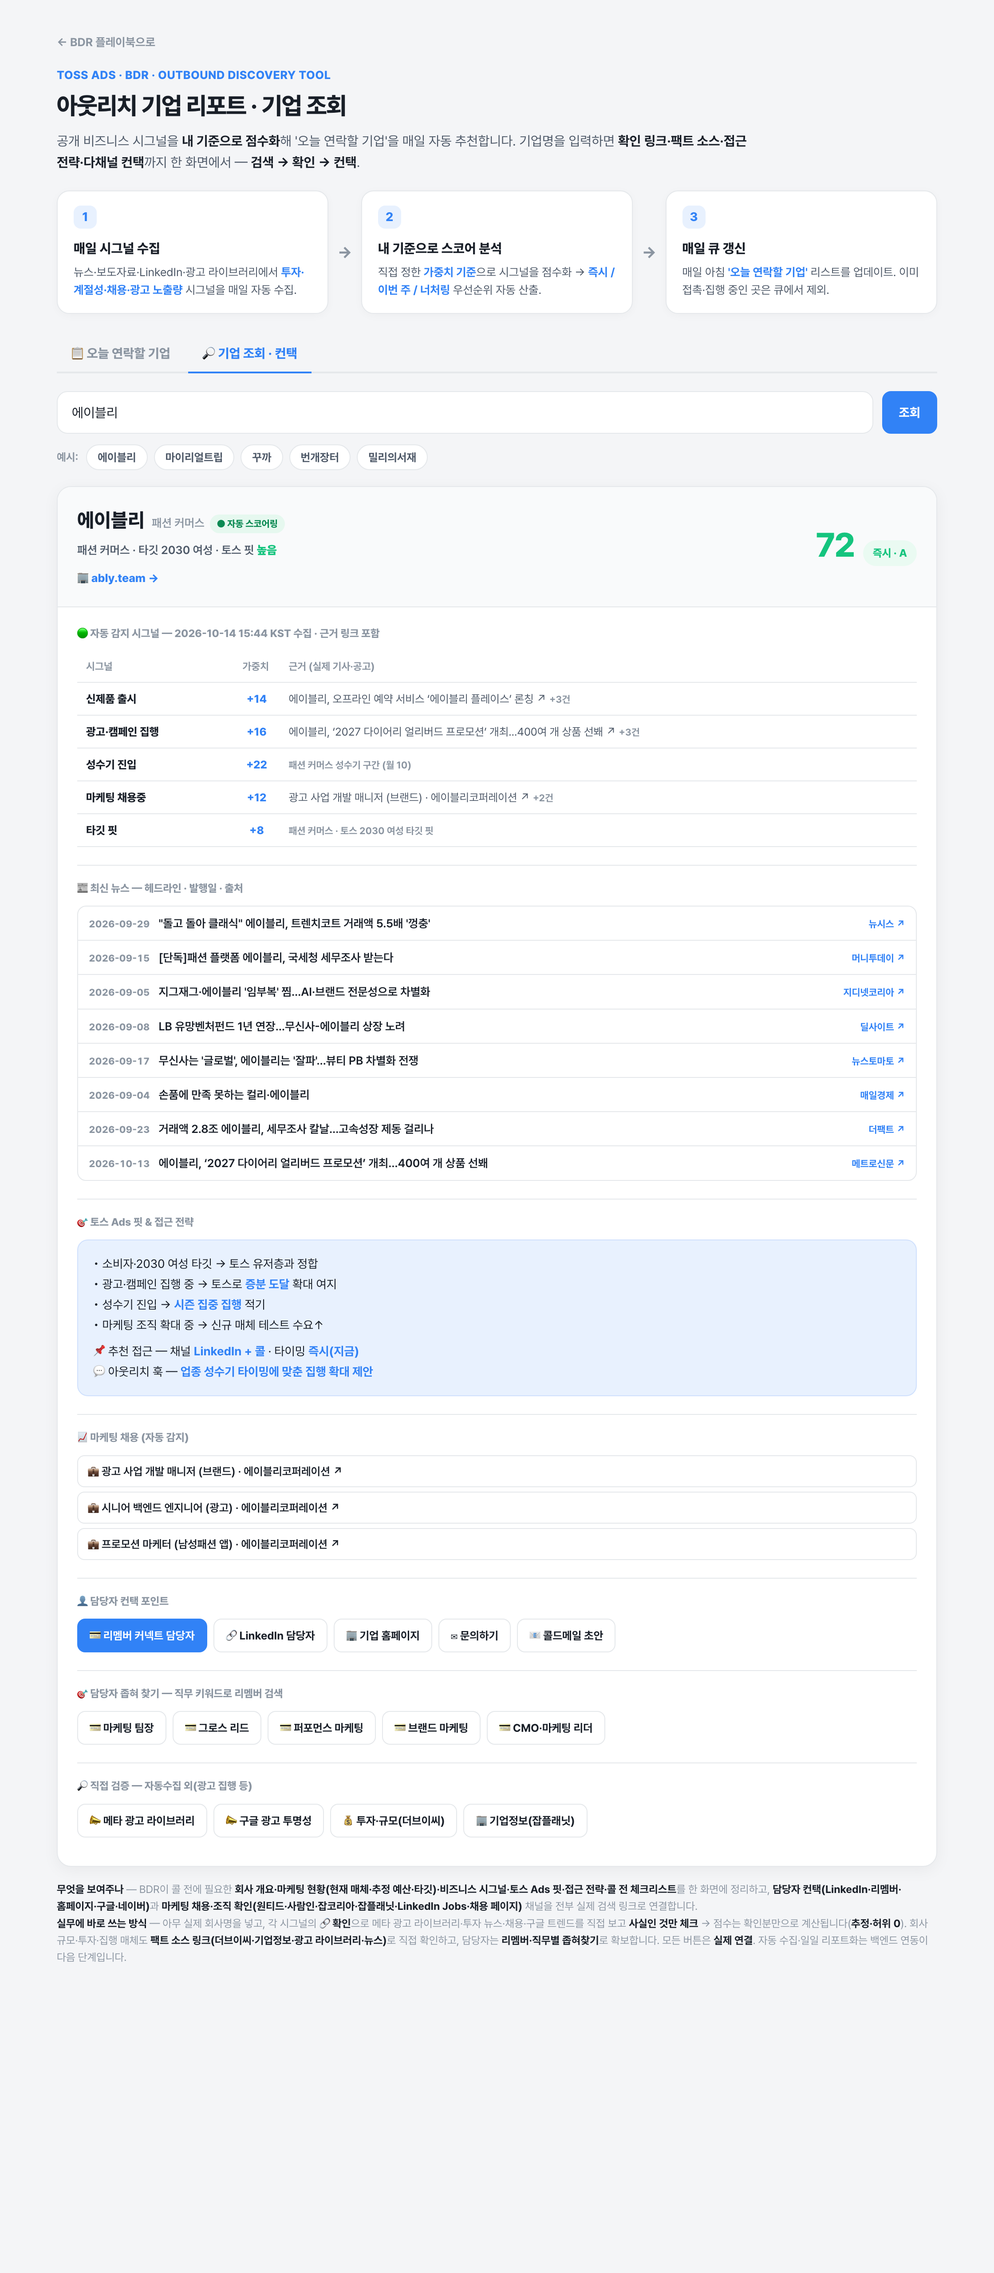
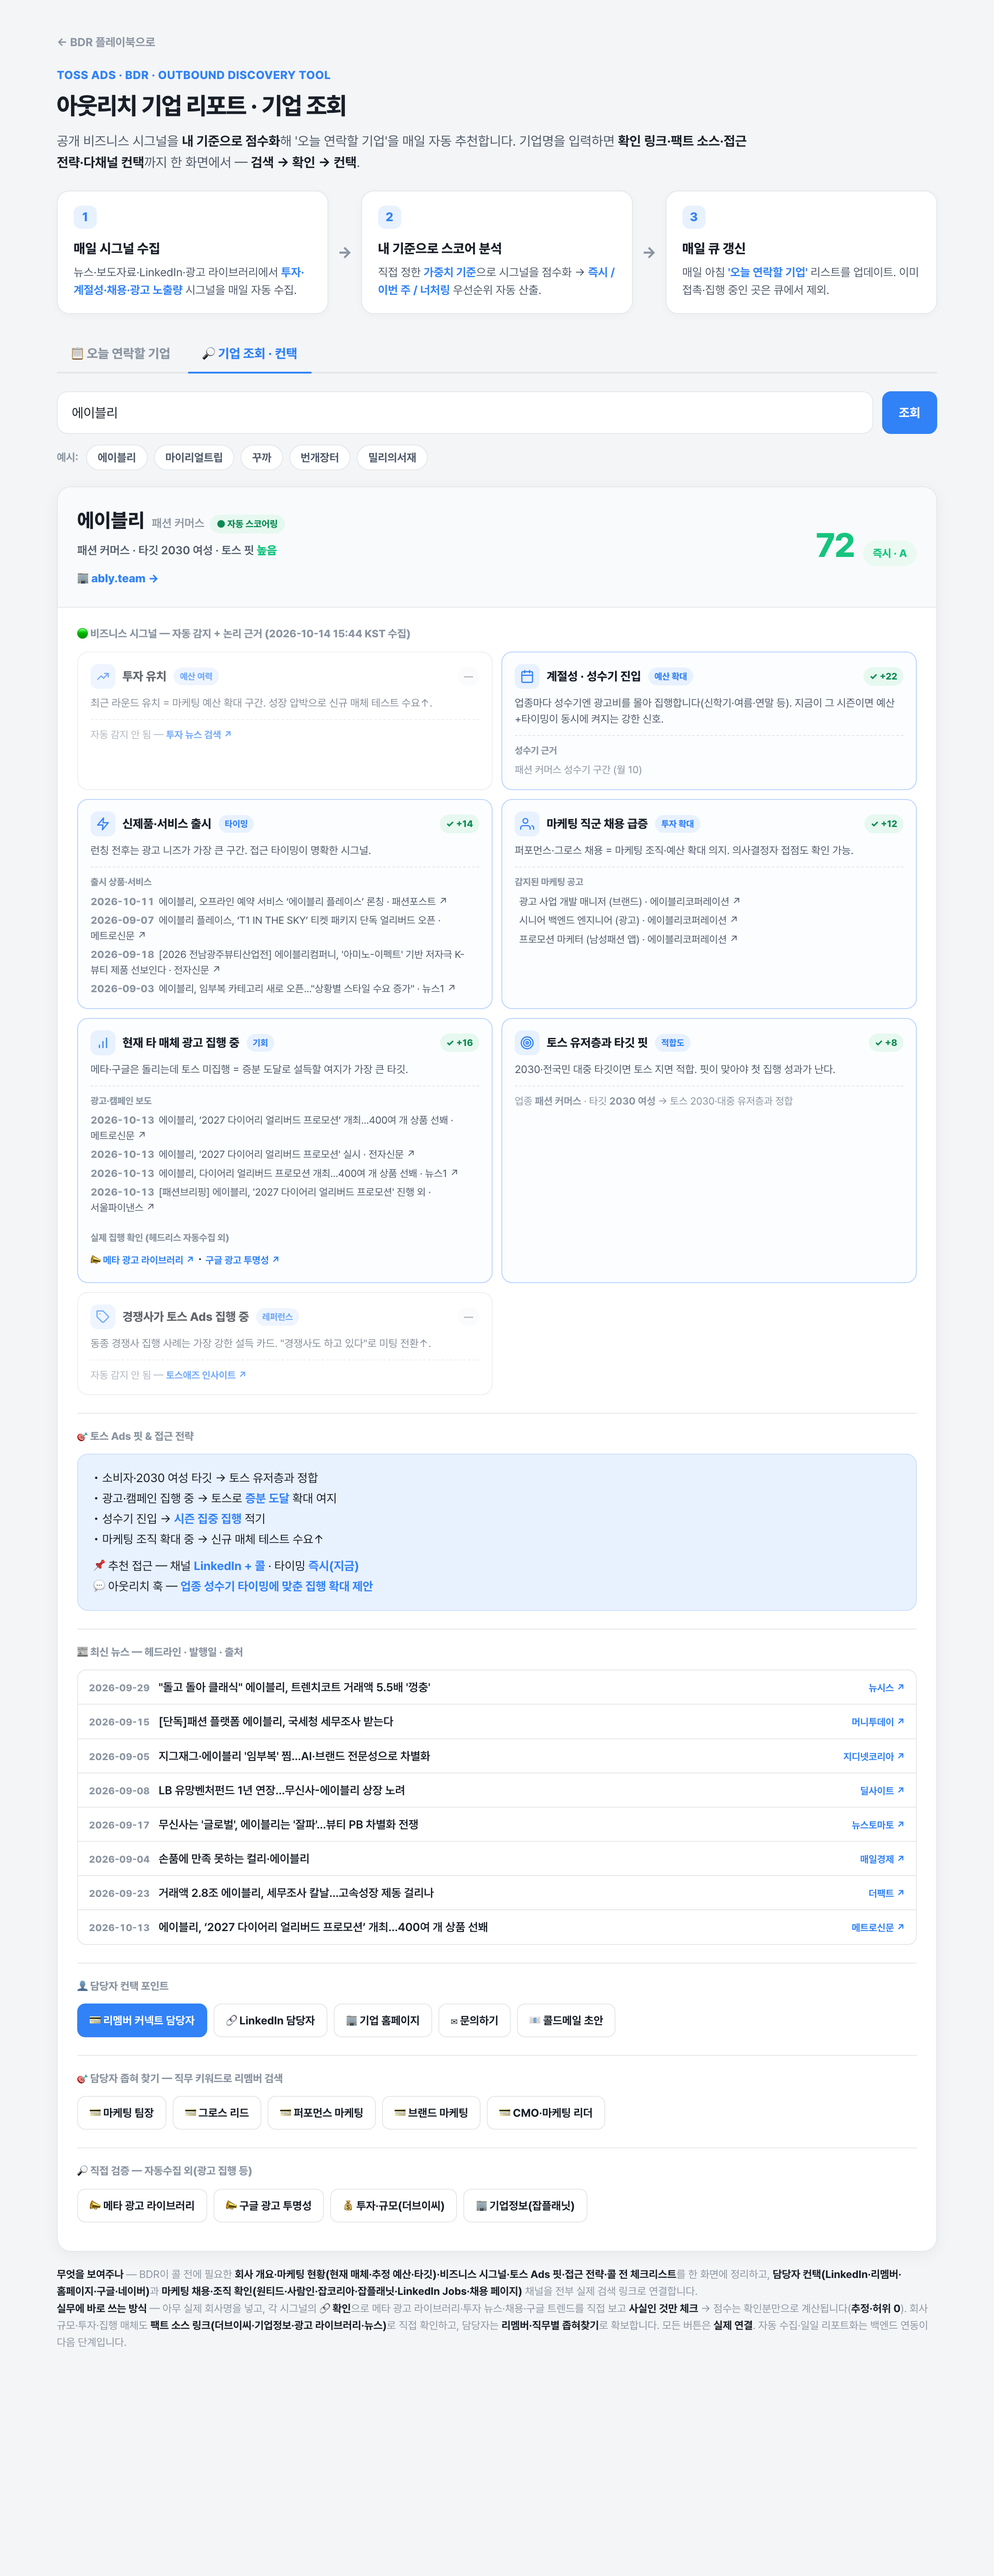
feat(tossbdr): 기업조회 탭 7개 시그널 카드 전면 표시 + 카드별 논리 근거
- 첨부 이미지의 7개 비즈니스 시그널(투자·계절성·신제품·채용·타매체광고·타깃핏·경쟁사)을 카드로 전부 표시
- 각 카드 하단에 해당 기업 근거: 뉴스 헤드라인·발행일·출처·링크, 채용 공고 링크, 성수기 근거
- 신제품 카드 = 출시 상품·서비스(헤드라인)로 무엇을 출시했는지 표시
- 미감지 시그널은 직접 확인 링크, 광고 집행은 메타/구글 실집행 확인 링크
- 상단 자동 스코어링 유지

diff --git a/tossbdr/discovery.html b/tossbdr/discovery.html
@@ -100,6 +100,26 @@
   .jobsauto{display:flex;flex-direction:column;gap:5px;margin-bottom:4px;}
   .jobsauto a{font-size:12.5px;color:var(--ink);text-decoration:none;font-weight:600;padding:7px 11px;border:1px solid var(--line);border-radius:8px;}
   .jobsauto a:hover{border-color:var(--blue);color:var(--blue);}
+  .sigcards{display:grid;grid-template-columns:1fr 1fr;gap:10px;margin-bottom:8px;}
+  .sigcard{border:1px solid var(--line);border-radius:12px;padding:13px 14px;background:#fff;}
+  .sigcard.on{border-color:#bcd4ff;background:#fbfdff;}
+  .sigcard.off{opacity:.68;}
+  .sigcard-h{display:flex;align-items:center;gap:8px;margin-bottom:7px;flex-wrap:wrap;}
+  .sigcard .sic{width:28px;height:28px;border-radius:8px;background:var(--blue-weak);color:var(--blue);display:flex;align-items:center;justify-content:center;flex:0 0 auto;}
+  .sigcard .sic svg{width:16px;height:16px;fill:none;stroke:currentColor;stroke-width:2;stroke-linecap:round;stroke-linejoin:round;}
+  .sigcard .stt{font-size:13.5px;font-weight:800;color:var(--ink);}
+  .sigcard .sbadge{font-size:10px;font-weight:800;color:var(--blue);background:var(--blue-weak);border-radius:999px;padding:2px 7px;}
+  .sigcard .son{font-size:10.5px;font-weight:800;color:#0b8a53;background:#e6f8ef;border-radius:999px;padding:2px 7px;margin-left:auto;}
+  .sigcard .soff{font-size:10.5px;font-weight:800;color:var(--muted);background:var(--bg-soft);border-radius:999px;padding:2px 7px;margin-left:auto;}
+  .sigcard .sdesc{font-size:12px;color:var(--body);line-height:1.5;margin-bottom:9px;}
+  .sigcard .sevid{display:flex;flex-direction:column;gap:4px;border-top:1px dashed var(--line);padding-top:8px;}
+  .sigcard .sevid .lbl{font-size:10.5px;font-weight:800;color:var(--muted);margin-bottom:1px;}
+  .sigcard a.ev{font-size:11.5px;color:var(--body);text-decoration:none;display:block;line-height:1.5;}
+  .sigcard a.ev:hover{color:var(--blue);text-decoration:underline;}
+  .sigcard a.ev .evd{font-weight:800;color:var(--muted);margin-right:5px;font-variant-numeric:tabular-nums;}
+  .sigcard a.vlink{font-size:11px;font-weight:700;color:var(--blue);text-decoration:none;}
+  .sigcard .snone{font-size:11.5px;color:var(--muted);line-height:1.5;}
+  @media(max-width:640px){.sigcards{grid-template-columns:1fr;}}
   /* 기업 조회 */
   .search{display:flex;gap:10px;flex-wrap:wrap;margin-bottom:12px;}
   .search input{flex:1;min-width:240px;padding:14px 16px;border:1px solid var(--line);border-radius:12px;font-size:15px;font-family:inherit;color:var(--ink);}
@@ -493,6 +513,47 @@
       return '<a href="https://connect.rememberapp.co.kr/search?keyword='+enc(name+' '+r[1])+'" target="_blank" rel="noopener">💳 '+r[0]+'</a>';
     }).join('');
   }
+  // 첨부 이미지의 7개 비즈니스 시그널 — 설명 + 기업별 논리 근거를 자동 표시
+  var SIGCARDS = [
+    {k:'invest',  t:'투자 유치',             badge:'예산 여력', desc:'최근 라운드 유치 = 마케팅 예산 확대 구간. 성장 압박으로 신규 매체 테스트 수요↑.',           icon:'<svg viewBox="0 0 24 24"><polyline points="3 17 9 11 13 15 21 7"/><polyline points="15 7 21 7 21 13"/></svg>', verify:function(n){return 'https://www.google.com/search?tbm=nws&q='+enc(n+' 투자 유치');}, vlabel:'투자 뉴스 검색'},
+    {k:'season',  t:'계절성 · 성수기 진입',   badge:'예산 확대', desc:'업종마다 성수기엔 광고비를 몰아 집행합니다(신학기·여름·연말 등). 지금이 그 시즌이면 예산+타이밍이 동시에 켜지는 강한 신호.', icon:'<svg viewBox="0 0 24 24"><rect x="3" y="4" width="18" height="18" rx="2"/><line x1="16" y1="2" x2="16" y2="6"/><line x1="8" y1="2" x2="8" y2="6"/><line x1="3" y1="10" x2="21" y2="10"/></svg>'},
+    {k:'launch',  t:'신제품·서비스 출시',     badge:'타이밍',   desc:'런칭 전후는 광고 니즈가 가장 큰 구간. 접근 타이밍이 명확한 시그널.',                        icon:'<svg viewBox="0 0 24 24"><polygon points="13 2 3 14 12 14 11 22 21 10 12 10 13 2"/></svg>', verify:function(n){return 'https://www.google.com/search?tbm=nws&q='+enc(n+' 출시 런칭');}, vlabel:'출시 뉴스 검색'},
+    {k:'hiring',  t:'마케팅 직군 채용 급증',   badge:'투자 확대', desc:'퍼포먼스·그로스 채용 = 마케팅 조직·예산 확대 의지. 의사결정자 접점도 확인 가능.',             icon:'<svg viewBox="0 0 24 24"><path d="M17 21v-2a4 4 0 0 0-4-4H5a4 4 0 0 0-4 4v2"/><circle cx="9" cy="7" r="4"/><path d="M23 21v-2a4 4 0 0 0-3-3.87"/></svg>', verify:function(n){return LINK.wanted(n);}, vlabel:'원티드·잡코리아'},
+    {k:'admarket',t:'현재 타 매체 광고 집행 중', badge:'기회',    desc:'메타·구글은 돌리는데 토스 미집행 = 증분 도달로 설득할 여지가 가장 큰 타깃.',                  icon:'<svg viewBox="0 0 24 24"><line x1="6" y1="20" x2="6" y2="16"/><line x1="12" y1="20" x2="12" y2="10"/><line x1="18" y1="20" x2="18" y2="4"/></svg>', verifyAds:true},
+    {k:'fit',     t:'토스 유저층과 타깃 핏',   badge:'적합도',   desc:'2030·전국민 대중 타깃이면 토스 지면 적합. 핏이 맞아야 첫 집행 성과가 난다.',                   icon:'<svg viewBox="0 0 24 24"><circle cx="12" cy="12" r="10"/><circle cx="12" cy="12" r="6"/><circle cx="12" cy="12" r="2"/></svg>'},
+    {k:'comp',    t:'경쟁사가 토스 Ads 집행 중', badge:'레퍼런스', desc:'동종 경쟁사 집행 사례는 가장 강한 설득 카드. "경쟁사도 하고 있다"로 미팅 전환↑.',             icon:'<svg viewBox="0 0 24 24"><path d="M20.59 13.41l-7.17 7.17a2 2 0 0 1-2.83 0L2 12V2h10l8.59 8.59a2 2 0 0 1 0 2.82z"/><line x1="7" y1="7" x2="7.01" y2="7"/></svg>', verify:function(n){return 'https://www.google.com/search?q='+enc(n+' 동종 경쟁사 토스 광고 집행');}, vlabel:'토스애즈 인사이트'},
+  ];
+  function sigCardsHTML(c){
+    return '<div class="sigcards">' + SIGCARDS.map(function(s){
+      var det = (c.sigs||[]).indexOf(s.k) >= 0;
+      var srcs = (c.sources && c.sources[s.k]) || [];
+      var w = (SIG[s.k] && SIG[s.k].w) || 0, evid = '';
+      if(det){
+        if(s.k==='fit'){
+          evid = '<div class="snone">업종 <b>'+esc(c.i)+'</b> · 타깃 <b>'+esc(c.target||'')+'</b> → 토스 2030·대중 유저층과 정합</div>';
+        } else if(s.k==='season'){
+          evid = '<span class="lbl">성수기 근거</span><div class="snone">'+esc((srcs[0]&&srcs[0].t)||'성수기 구간 진입')+'</div>';
+        } else {
+          var withU = srcs.filter(function(x){ return x.u; });
+          var lbl = s.k==='launch' ? '출시 상품·서비스' : s.k==='hiring' ? '감지된 마케팅 공고' : s.k==='admarket' ? '광고·캠페인 보도' : '근거 기사';
+          evid = '<span class="lbl">'+lbl+'</span>' + (withU.length
+            ? withU.map(function(x){ return '<a class="ev" href="'+esc(x.u)+'" target="_blank" rel="noopener"><span class="evd">'+esc(x.d||'')+'</span>'+esc(x.t)+(x.s?' · '+esc(x.s):'')+' ↗</a>'; }).join('')
+            : '<span class="snone">근거 링크 없음</span>');
+        }
+        if(s.verifyAds){
+          evid += '<div style="margin-top:7px;"><span class="lbl">실제 집행 확인 (헤드리스 자동수집 외)</span><div><a class="vlink" href="'+esc(VERIFY.running(c.n))+'" target="_blank" rel="noopener">📣 메타 광고 라이브러리 ↗</a> · <a class="vlink" href="https://adstransparency.google.com/?region=KR" target="_blank" rel="noopener">구글 광고 투명성 ↗</a></div></div>';
+        }
+      } else {
+        var vurl = s.verify ? s.verify(c.n) : (s.verifyAds ? VERIFY.running(c.n) : '');
+        evid = '<div class="snone">자동 감지 안 됨' + (vurl ? ' — <a class="vlink" href="'+esc(vurl)+'" target="_blank" rel="noopener">'+esc(s.vlabel||'직접 확인')+' ↗</a>' : '') + '</div>';
+      }
+      return '<div class="sigcard '+(det?'on':'off')+'">'+
+        '<div class="sigcard-h"><span class="sic">'+s.icon+'</span><span class="stt">'+esc(s.t)+'</span><span class="sbadge">'+esc(s.badge)+'</span>'+(det?'<span class="son">✓ +'+w+'</span>':'<span class="soff">—</span>')+'</div>'+
+        '<div class="sdesc">'+esc(s.desc)+'</div>'+
+        '<div class="sevid">'+evid+'</div>'+
+      '</div>';
+    }).join('') + '</div>';
+  }
   // ── 자동 브리프: 수집된 실데이터로 스코어링·뉴스·채용·컨택을 자동 구성 ──
   function briefAutoHTML(c){
     var name=c.n, ind=c.i, g=grade(c.score||0), hp=c.hp||LINK.home(name);
@@ -528,11 +589,10 @@
         '<div style="margin-top:8px;"><a href="'+esc(hp)+'" target="_blank" rel="noopener" style="font-size:13px;font-weight:800;color:var(--blue);text-decoration:none;">🏢 '+esc(hp.replace(/^https?:\/\//,''))+' →</a></div></div>'+
         '<div class="bscore"><span class="n" style="color:'+g.col+'">'+c.score+'</span><span class="gr '+g.c+'">'+g.g+'</span></div></div>'+
       '<div class="bbody">'+
-        '<div class="bsec">🟢 자동 감지 시그널 — '+esc((LIVEDATA&&LIVEDATA.generated)||'')+' 수집 · 근거 링크 포함</div>'+
-        '<table class="sigauto"><tr><th>시그널</th><th class="sw">가중치</th><th>근거 (실제 기사·공고)</th></tr>'+sigRows+'</table>'+
-        '<div class="bsec">📰 최신 뉴스 — 헤드라인 · 발행일 · 출처</div>'+newsHTML+
+        '<div class="bsec">🟢 비즈니스 시그널 — 자동 감지 + 논리 근거 ('+esc((LIVEDATA&&LIVEDATA.generated)||'')+' 수집)</div>'+
+        sigCardsHTML(c)+
         '<div class="bsec">🎯 토스 Ads 핏 & 접근 전략</div><div class="brec">'+recHTML+'</div>'+
-        '<div class="bsec">📈 마케팅 채용 (자동 감지)</div>'+jobsHTML+
+        '<div class="bsec">📰 최신 뉴스 — 헤드라인 · 발행일 · 출처</div>'+newsHTML+
         '<div class="bsec">👤 담당자 컨택 포인트</div><div class="chgroup"><div class="chbtns">'+
           ch(LINK.remember(name),'💳 리멤버 커넥트 담당자',true)+ch(LINK.linkedin(name),'🔗 LinkedIn 담당자')+ch(hp,'🏢 기업 홈페이지')+ch(LINK.inquiry(name),'✉ 문의하기')+ch(LINK.mail(name,hook||'토스 Ads 제안'),'📧 콜드메일 초안')+
         '</div></div>'+
